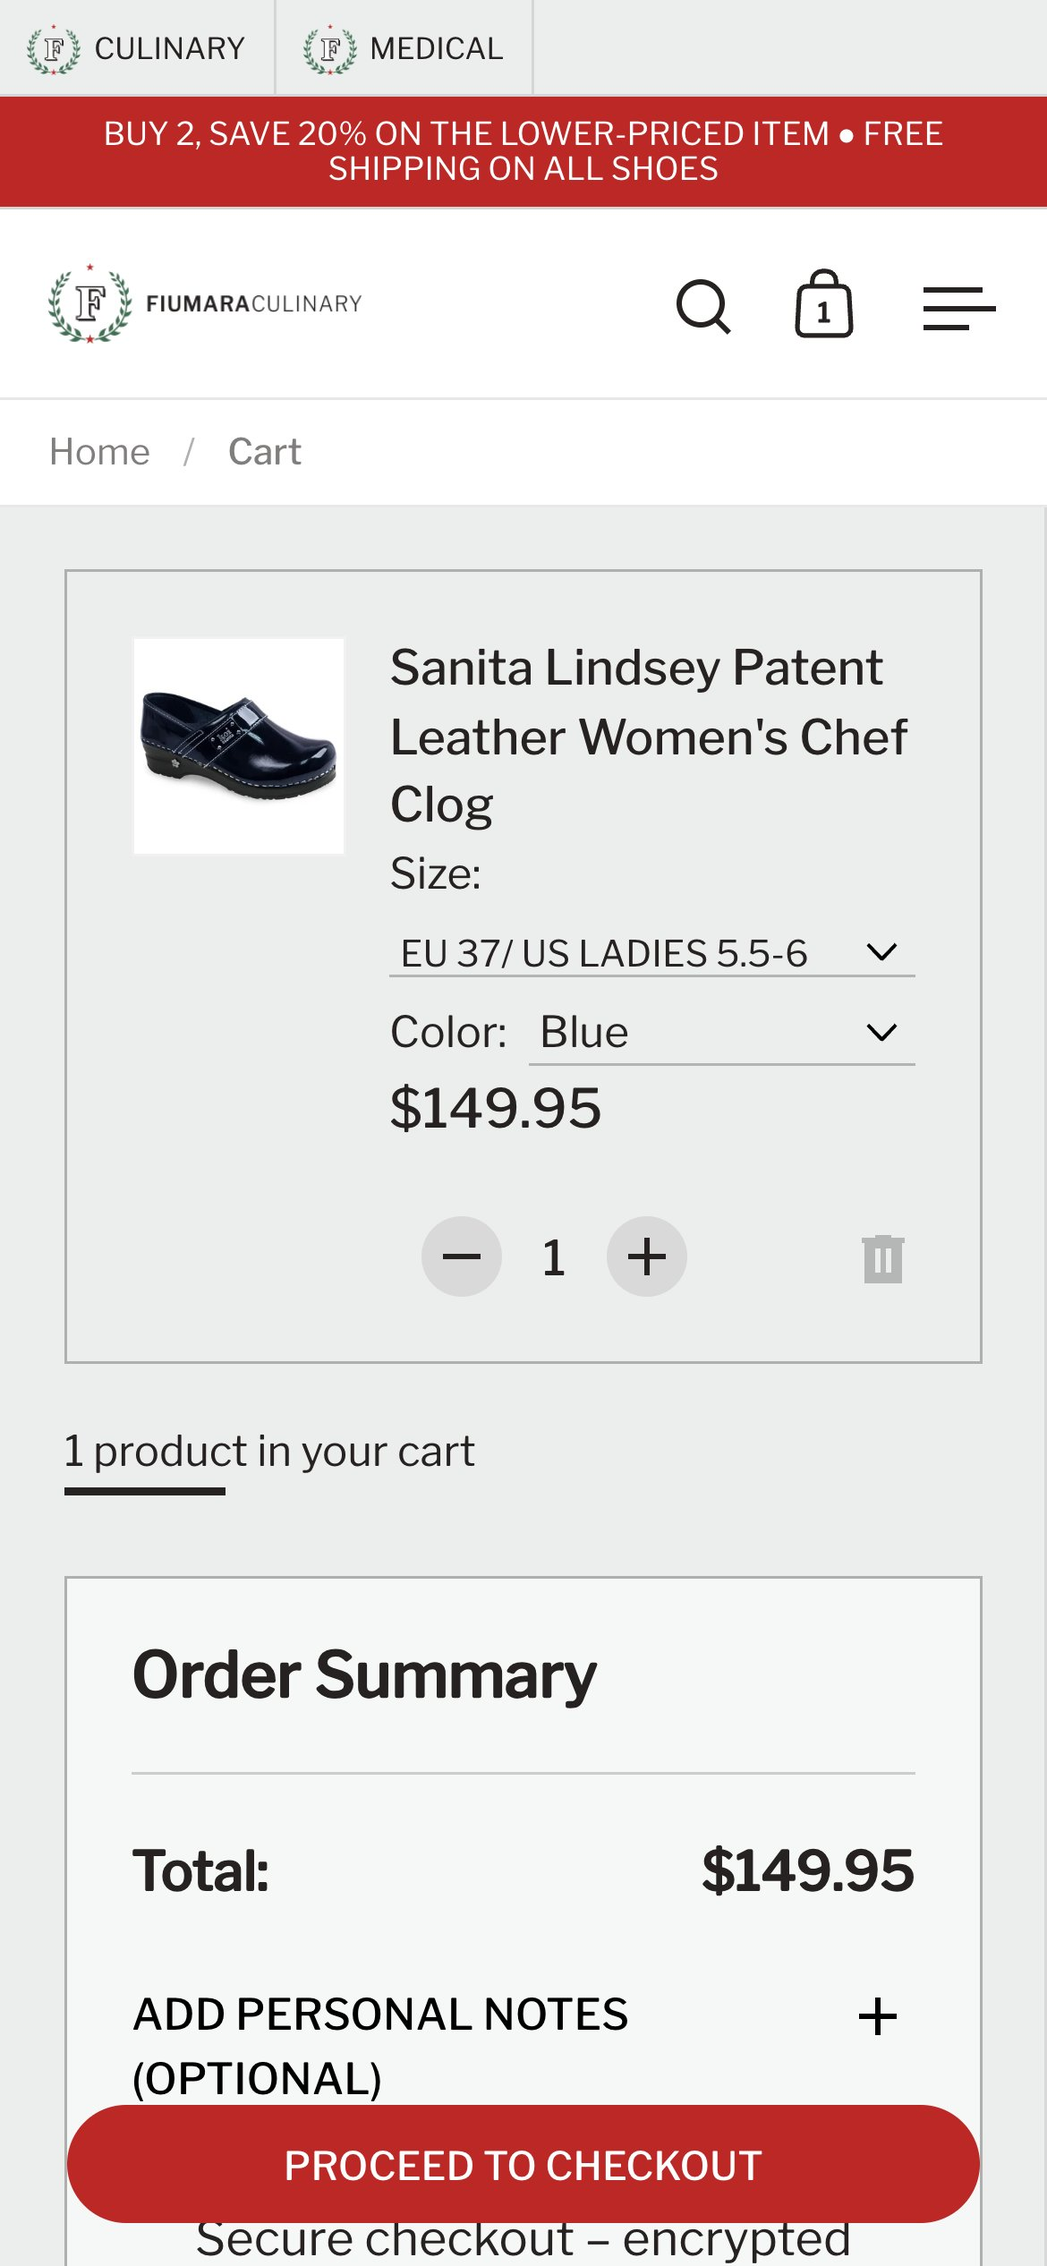
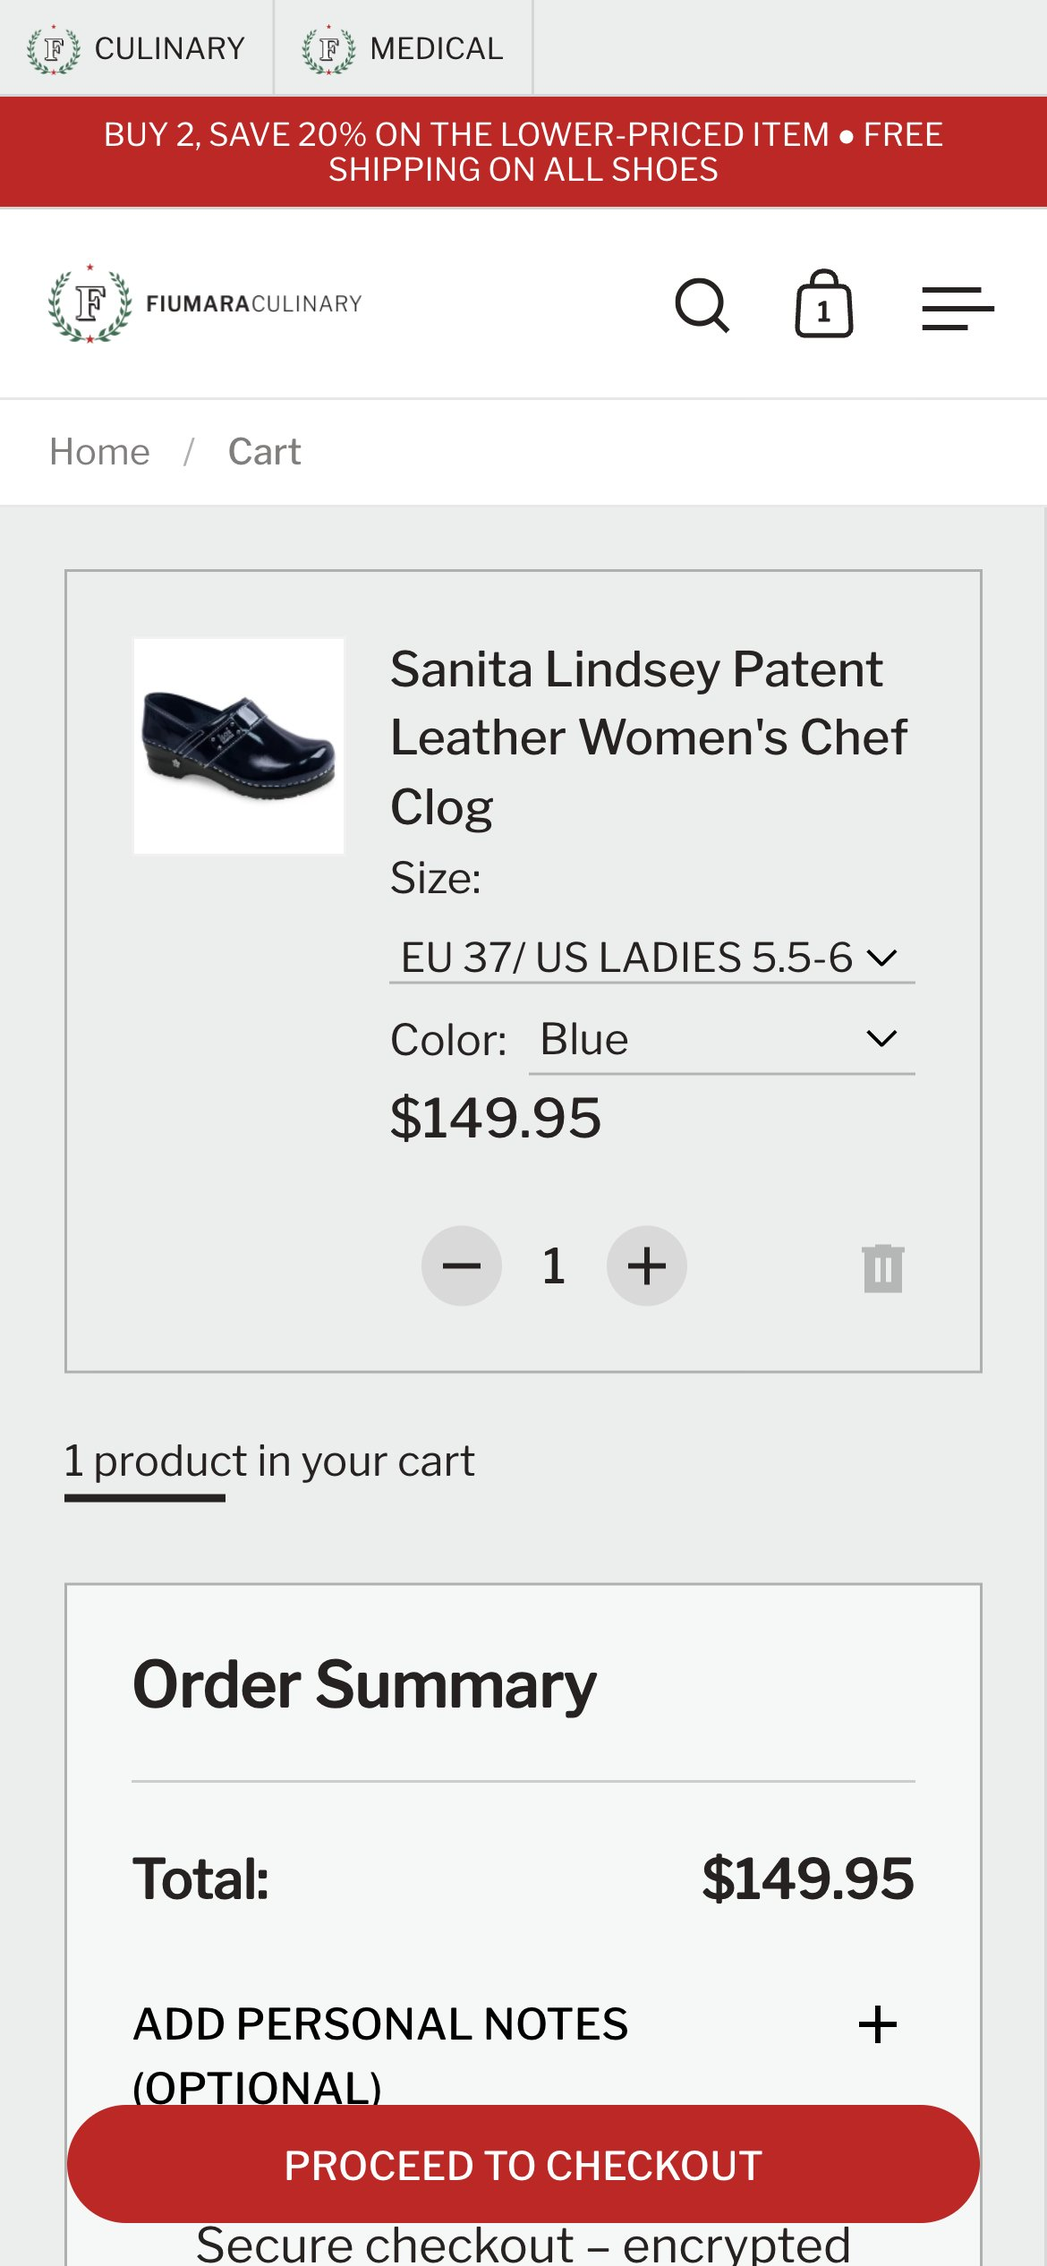
Close-ups for the checkout discount, cart shipping line and clog size; blog pair shows one change

diff --git a/index.html b/index.html
@@ -1202,7 +1202,7 @@ a.irow:hover b{text-decoration:underline}
 <h1>Store audit <span class="nm">Fiumara Culinary</span></h1> <p class="sub">What to build next on fiumaraculinary.com — screen by screen</p> <p class="meta">October 2026 · Shopify · U.S. store · checked on iPhone, 9–11 Oct 2026, rechecked 19 Oct 2026</p>
 <nav class="toc"> <a href="#summary">The short version</a> <a href="#critical">3 first-wave</a><a href="#medium">2 second-wave</a><a href="#low">3 small fixes</a><a href="#extra">2 separate offers</a> <a href="#strong">What already works</a> <a href="#price">Pricing</a> </nav> </section>
 <section class="slide" id="summary"> <img class="silk sm" src="img/silk.png" alt=""> <div class="shead"><h2>The short version</h2></div>
-<p class="lead"><b>We built the current store with you</b> — homepage, header and footer, bulk orders with embroidery quotes, and the cart fixes. This audit looks at what to build next.</p><p class="lead"><b>What we noticed.</b> Coats cannot be filtered by size or brand, the same jacket is listed five times, the “Buy 2, save 20%” offer is not applied at checkout, and shipping is a surprise on the last step.</p><p class="lead"><b>What we propose.</b> 8 changes, each on one screen — today on the left, after on the right. Then two offers: restaurant orders (size help, a CRM for team quotes) and blog posting.</p>
+<p class="lead"><b>We built the current store with you</b> — homepage, header and footer, bulk orders with embroidery quotes, and the cart fixes. This audit looks at what to build next.</p><p class="lead"><b>What we noticed.</b> Coats cannot be filtered by size or brand, the same jacket is listed five times, the “Buy 2, save 20%” offer is not applied at checkout, and shipping is a surprise on the last step.</p><p class="lead"><b>What we propose.</b> 8 changes, each on one screen — today on the left, after on the right. Then two offers: restaurant orders and blog posting.</p>
 <div class="kpis" style="margin-top:34px"><div class="kpi"><b class="notranslate" translate="no">3</b><span>First wave</span></div><div class="kpi"><b class="notranslate" translate="no">2</b><span>Second wave</span></div><div class="kpi"><b class="notranslate" translate="no">3</b><span>Small fixes</span></div><div class="kpi"><b class="notranslate" translate="no">2</b><span>Separate offers</span></div></div> </section>
 <section class="slide divider" id="critical"> <img class="silk" src="img/silk.png" alt=""> <span class="sev crit">First wave</span> <h2>3 changes that help chefs find and buy their uniform</h2> </section>
 <section class="slide" id="p-filter"> <img class="silk sm" src="img/silk.png" alt="">
@@ -1229,9 +1229,9 @@ a.irow:hover b{text-decoration:underline}
 <div class="shead"><span class="num notranslate" translate="no">03</span><h2><span class="sev crit">First wave</span>“Buy 2, save 20%” is in the bar on every page, and checkout does not apply it</h2></div>
 <div class="pbody">
 <div class="txt t1"><div class="lbl"><span class="pill">Today</span><svg class="conn" viewBox="0 0 54 12"><path d="M0 6h50M45 1.5 50 6l-5 4.5" fill="none" stroke="#6d6d6d" stroke-width="1.5"/></svg></div><p>The announcement bar promises 20% off the lower-priced item when you buy two. We added an apron and a T-shirt and opened checkout: subtotal $79.90 and no discount line. Two clogs in the cart gave the same result.</p><p class="fine-note">Checked live on the U.S. store, iPhone (390×844), 19 Oct 2026. · <a href="https://fiumaraculinary.com/cart/42921752887359:1,42920069464127:1" target="_blank" rel="noopener">open the page ↗</a></p></div>
-<div class="v1"><div><div class="phone"><div class="screen"><div class="island"></div><div class="sbar"><span>9:41</span><svg viewBox="0 0 24 11"><rect x=".5" y=".5" width="20" height="10" rx="3" fill="none" stroke="#111"/><rect x="2" y="2" width="16" height="7" rx="1.5" fill="#111"/><rect x="21.5" y="3.5" width="1.8" height="4" rx=".9" fill="#111"/></svg></div><div class="view"><img class="shot" src="img/now-checkout-bogo.jpg" alt=""></div><div class="url notranslate" translate="no"><span>fiumaraculinary.com</span></div></div></div><div class="cap">Today — two items, no discount</div></div></div>
+<div class="v1"><div><div class="phone"><div class="screen"><div class="island"></div><div class="sbar"><span>9:41</span><svg viewBox="0 0 24 11"><rect x=".5" y=".5" width="20" height="10" rx="3" fill="none" stroke="#111"/><rect x="2" y="2" width="16" height="7" rx="1.5" fill="#111"/><rect x="21.5" y="3.5" width="1.8" height="4" rx=".9" fill="#111"/></svg></div><div class="view"><img class="shot" src="img/now-checkout-bogo.jpg" alt=""></div><div class="url notranslate" translate="no"><span>fiumaraculinary.com</span></div></div></div><div class="zoom"><span class="zl">Close-up</span><div class="zbox"><img src="img/zoom-p-bogo-now.jpg" alt=""></div></div><div class="cap">Today — two items, no discount</div></div></div>
 <div class="txt t2"><div class="lbl"><span class="pill">We propose</span><svg class="conn" viewBox="0 0 54 12"><path d="M0 6h50M45 1.5 50 6l-5 4.5" fill="none" stroke="#6d6d6d" stroke-width="1.5"/></svg></div><p>Make checkout and the bar agree: set up the automatic discount for the items it covers. If the offer has ended, we change the bar text instead.</p><p>On the right: the same checkout with the discount applied.</p></div>
-<div class="v2"><div><div class="phone"><div class="screen"><div class="island"></div><div class="sbar"><span>9:41</span><svg viewBox="0 0 24 11"><rect x=".5" y=".5" width="20" height="10" rx="3" fill="none" stroke="#111"/><rect x="2" y="2" width="16" height="7" rx="1.5" fill="#111"/><rect x="21.5" y="3.5" width="1.8" height="4" rx=".9" fill="#111"/></svg></div><div class="view"><img class="shot" src="img/fix-checkout-bogo.jpg" alt=""></div><div class="url notranslate" translate="no"><span>fiumaraculinary.com</span></div></div></div><div class="cap">The same checkout with 20% off the T-shirt</div></div></div>
+<div class="v2"><div><div class="phone"><div class="screen"><div class="island"></div><div class="sbar"><span>9:41</span><svg viewBox="0 0 24 11"><rect x=".5" y=".5" width="20" height="10" rx="3" fill="none" stroke="#111"/><rect x="2" y="2" width="16" height="7" rx="1.5" fill="#111"/><rect x="21.5" y="3.5" width="1.8" height="4" rx=".9" fill="#111"/></svg></div><div class="view"><img class="shot" src="img/fix-checkout-bogo.jpg" alt=""></div><div class="url notranslate" translate="no"><span>fiumaraculinary.com</span></div></div></div><div class="zoom"><span class="zl">Close-up</span><div class="zbox"><img src="img/zoom-p-bogo-fix.jpg" alt=""></div></div><div class="cap">The same checkout with 20% off the T-shirt</div></div></div>
 <div class="cardcol"><div class="benefit-top"><span class="pill">Why it pays</span><span class="arrow"><svg width="14" height="16" viewBox="0 0 14 16"><path d="M7 1v13M1.5 8.5 7 14l5.5-5.5" fill="none" stroke="#444" stroke-width="1.6"/></svg></span></div>
 <div class="card"><p>The bar is the first line on every page; the total at checkout should match what it promises.</p><div class="stats"><div><b class="notranslate" translate="no">$79.90</b><span>checkout subtotal for two items, no discount</span></div><div><b class="notranslate" translate="no">−$4.99</b><span>what the bar promises on this order</span></div></div></div><div class="ptag notranslate" translate="no"><span>Price</span><b>$60</b><em>2 h &#183; $30/h</em></div></div>
 </div></section>
@@ -1240,9 +1240,9 @@ a.irow:hover b{text-decoration:underline}
 <div class="shead"><span class="num notranslate" translate="no">04</span><h2><span class="sev imp">Second wave</span>Apparel ships from $12.09, and the cart says nothing about shipping</h2></div>
 <div class="pbody">
 <div class="txt t1"><div class="lbl"><span class="pill">Today</span><svg class="conn" viewBox="0 0 54 12"><path d="M0 6h50M45 1.5 50 6l-5 4.5" fill="none" stroke="#6d6d6d" stroke-width="1.5"/></svg></div><p>Shipping is free only on shoes. For a $24.95 T-shirt shipped to Arizona, the cheapest option at checkout is $12.09. The cart does not mention shipping. The shipping policy gives delivery times, but no prices.</p><p class="fine-note">Checked live on the U.S. store, iPhone (390×844), 19 Oct 2026. · <a href="https://fiumaraculinary.com/cart/add?id=42920069529663&amp;quantity=1" target="_blank" rel="noopener">open the page ↗</a></p></div>
-<div class="v1"><div><div class="phone"><div class="screen"><div class="island"></div><div class="sbar"><span>9:41</span><svg viewBox="0 0 24 11"><rect x=".5" y=".5" width="20" height="10" rx="3" fill="none" stroke="#111"/><rect x="2" y="2" width="16" height="7" rx="1.5" fill="#111"/><rect x="21.5" y="3.5" width="1.8" height="4" rx=".9" fill="#111"/></svg></div><div class="view"><img class="shot" src="img/now-ship.jpg" alt=""></div><div class="url notranslate" translate="no"><span>fiumaraculinary.com</span></div></div></div><div class="cap">Today — no shipping line in the cart</div></div></div>
+<div class="v1"><div><div class="phone"><div class="screen"><div class="island"></div><div class="sbar"><span>9:41</span><svg viewBox="0 0 24 11"><rect x=".5" y=".5" width="20" height="10" rx="3" fill="none" stroke="#111"/><rect x="2" y="2" width="16" height="7" rx="1.5" fill="#111"/><rect x="21.5" y="3.5" width="1.8" height="4" rx=".9" fill="#111"/></svg></div><div class="view"><img class="shot" src="img/now-ship.jpg" alt=""></div><div class="url notranslate" translate="no"><span>fiumaraculinary.com</span></div></div></div><div class="zoom"><span class="zl">Close-up</span><div class="zbox"><img src="img/zoom-p-ship-now.jpg" alt=""></div></div><div class="cap">Today — no shipping line in the cart</div></div></div>
 <div class="txt t2"><div class="lbl"><span class="pill">We propose</span><svg class="conn" viewBox="0 0 54 12"><path d="M0 6h50M45 1.5 50 6l-5 4.5" fill="none" stroke="#6d6d6d" stroke-width="1.5"/></svg></div><p>Set free shipping on apparel from $125. Show the progress in the cart: “Add $100.05 for free shipping”.</p><p>Why $125: Happy Chef starts at $95, Chef Works and Bragard at $99, TILIT at $150. Your median chef coat is $99.95. At $99 one coat would qualify. At $125 a coat with an apron or pants does.</p><p>On the right: the same cart with the free-shipping line.</p></div>
-<div class="v2"><div><div class="phone"><div class="screen"><div class="island"></div><div class="sbar"><span>9:41</span><svg viewBox="0 0 24 11"><rect x=".5" y=".5" width="20" height="10" rx="3" fill="none" stroke="#111"/><rect x="2" y="2" width="16" height="7" rx="1.5" fill="#111"/><rect x="21.5" y="3.5" width="1.8" height="4" rx=".9" fill="#111"/></svg></div><div class="view"><img class="shot" src="img/fix-ship.jpg" alt=""></div><div class="url notranslate" translate="no"><span>fiumaraculinary.com</span></div></div></div><div class="cap">The same cart with a free-shipping goal</div></div></div>
+<div class="v2"><div><div class="phone"><div class="screen"><div class="island"></div><div class="sbar"><span>9:41</span><svg viewBox="0 0 24 11"><rect x=".5" y=".5" width="20" height="10" rx="3" fill="none" stroke="#111"/><rect x="2" y="2" width="16" height="7" rx="1.5" fill="#111"/><rect x="21.5" y="3.5" width="1.8" height="4" rx=".9" fill="#111"/></svg></div><div class="view"><img class="shot" src="img/fix-ship.jpg" alt=""></div><div class="url notranslate" translate="no"><span>fiumaraculinary.com</span></div></div></div><div class="zoom"><span class="zl">Close-up</span><div class="zbox"><img src="img/zoom-p-ship-fix.jpg" alt=""></div></div><div class="cap">The same cart with a free-shipping goal</div></div></div>
 <div class="cardcol"><div class="benefit-top"><span class="pill">Why it pays</span><span class="arrow"><svg width="14" height="16" viewBox="0 0 14 16"><path d="M7 1v13M1.5 8.5 7 14l5.5-5.5" fill="none" stroke="#444" stroke-width="1.6"/></svg></span></div>
 <div class="card"><p>The shopper sees shipping before checkout. The goal sits just above one coat, so it invites a second item.</p><div class="stats"><div><b class="notranslate" translate="no">$12.09</b><span>cheapest shipping on a $24.95 T-shirt</span></div><div><b class="notranslate" translate="no">$95–150</b><span>free-shipping thresholds at 4 competitors</span></div></div><p class="comp">Like at <a href="https://www.tilitnyc.com/products/chef-shirt" target="_blank" rel="noopener">TILIT ↗</a> — the $150 goal is in the top bar.</p></div><div class="ptag notranslate" translate="no"><span>Price</span><b>$90</b><em>3 h &#183; $30/h</em></div></div>
 </div></section>
@@ -1265,7 +1265,7 @@ a.irow:hover b{text-decoration:underline}
 <div class="txt t2"><div class="lbl"><span class="pill">We propose</span><svg class="conn" viewBox="0 0 54 12"><path d="M0 6h50M45 1.5 50 6l-5 4.5" fill="none" stroke="#6d6d6d" stroke-width="1.5"/></svg></div><p>Keep the size short and show the real difference next to it: +$3, +$4, +$5.</p><p>On the right: the same buttons with the real surcharge.</p></div>
 <div class="v2"><div><div class="phone"><div class="screen"><div class="island"></div><div class="sbar"><span>9:41</span><svg viewBox="0 0 24 11"><rect x=".5" y=".5" width="20" height="10" rx="3" fill="none" stroke="#111"/><rect x="2" y="2" width="16" height="7" rx="1.5" fill="#111"/><rect x="21.5" y="3.5" width="1.8" height="4" rx=".9" fill="#111"/></svg></div><div class="view"><img class="shot" src="img/fix-sizeadd.jpg" alt=""></div><div class="url notranslate" translate="no"><span>fiumaraculinary.com</span></div></div></div><div class="zoom"><span class="zl">Close-up</span><div class="zbox"><img src="img/zoom-p-sizeadd-fix.jpg" alt=""></div></div><div class="cap">The same sizes with the real surcharge</div></div></div>
 <div class="cardcol"><div class="benefit-top"><span class="pill">Why it pays</span><span class="arrow"><svg width="14" height="16" viewBox="0 0 14 16"><path d="M7 1v13M1.5 8.5 7 14l5.5-5.5" fill="none" stroke="#444" stroke-width="1.6"/></svg></span></div>
-<div class="card"><p>The size reads at a glance, and the surcharge on the button matches the price the shopper pays.</p><div class="stats"><div><b class="notranslate" translate="no">+$3 / +$4 / +$5</b><span>real surcharge; every button says $4</span></div><div><b class="notranslate" translate="no">37</b><span>products with the surcharge in the size name</span></div></div><p class="comp">Like at <a href="https://www.bragardusa.com/greg-chef-coat-br132171" target="_blank" rel="noopener">Bragard USA ↗</a> — large sizes carry a small “+$3.00” or “+$6.00” badge on the size button.</p></div><div class="ptag notranslate" translate="no"><span>Price</span><b>$60</b><em>2 h &#183; $30/h</em></div></div>
+<div class="card"><p>The size reads at a glance, and the surcharge on the button matches the price the shopper pays.</p><div class="stats"><div><b class="notranslate" translate="no">+$3 / +$4 / +$5</b><span>real surcharge; every button says $4</span></div><div><b class="notranslate" translate="no">37</b><span>products with the surcharge in the size name</span></div></div><p class="comp">Like at <a href="https://www.bragardusa.com/greg-chef-coat-br132171" target="_blank" rel="noopener">Bragard USA ↗</a> — large sizes carry a small “+$3.00” or “+$6.00” badge above the size button.</p></div><div class="ptag notranslate" translate="no"><span>Price</span><b>$60</b><em>2 h &#183; $30/h</em></div></div>
 </div></section>
 <section class="slide" id="p-cartsize"> <img class="silk sm" src="img/silk.png" alt="">
 <div class="shead"><span class="num notranslate" translate="no">07</span><h2><span class="sev low">Small fixes</span>In the cart the clog size is cut off: “EU 37/ US LADI…”</h2></div>
@@ -1303,8 +1303,8 @@ a.irow:hover b{text-decoration:underline}
 <div class="pbody">
 <div class="txt t1"><div class="lbl"><span class="pill">Today</span><svg class="conn" viewBox="0 0 54 12"><path d="M0 6h50M45 1.5 50 6l-5 4.5" fill="none" stroke="#6d6d6d" stroke-width="1.5"/></svg></div><p>Your News page has 33 pages of articles about chef workwear, partners and events. The latest one was published on October 1, 2025.</p><p class="fine-note">Checked live on the U.S. store, iPhone (390×844), 19 Oct 2026. · <a href="https://fiumaraculinary.com/blogs/news" target="_blank" rel="noopener">open the page ↗</a></p></div>
 <div class="v1"><div><div class="phone"><div class="screen"><div class="island"></div><div class="sbar"><span>9:41</span><svg viewBox="0 0 24 11"><rect x=".5" y=".5" width="20" height="10" rx="3" fill="none" stroke="#111"/><rect x="2" y="2" width="16" height="7" rx="1.5" fill="#111"/><rect x="21.5" y="3.5" width="1.8" height="4" rx=".9" fill="#111"/></svg></div><div class="view"><img class="shot" src="img/now-blogcard.jpg" alt=""></div><div class="url notranslate" translate="no"><span>fiumaraculinary.com</span></div></div></div><div class="cap">Today — the latest article, Oct 2025</div></div></div>
-<div class="txt t2"><div class="lbl"><span class="pill">We propose</span><svg class="conn" viewBox="0 0 54 12"><path d="M0 6h50M45 1.5 50 6l-5 4.5" fill="none" stroke="#6d6d6d" stroke-width="1.5"/></svg></div><p>We set up blog posting for your store: one new article a day on chef workwear topics, saved as drafts for your approval or published automatically. New articles appear in the readable card layout from item 08.</p><p>On the right: a new article first, in the readable card.</p></div>
-<div class="v2"><div><div class="phone"><div class="screen"><div class="island"></div><div class="sbar"><span>9:41</span><svg viewBox="0 0 24 11"><rect x=".5" y=".5" width="20" height="10" rx="3" fill="none" stroke="#111"/><rect x="2" y="2" width="16" height="7" rx="1.5" fill="#111"/><rect x="21.5" y="3.5" width="1.8" height="4" rx=".9" fill="#111"/></svg></div><div class="view"><img class="shot" src="img/fix-blognew.jpg" alt=""></div><div class="url notranslate" translate="no"><span>fiumaraculinary.com</span></div></div></div><div class="cap">A new article first, readable</div></div></div>
+<div class="txt t2"><div class="lbl"><span class="pill">We propose</span><svg class="conn" viewBox="0 0 54 12"><path d="M0 6h50M45 1.5 50 6l-5 4.5" fill="none" stroke="#6d6d6d" stroke-width="1.5"/></svg></div><p>We set up blog posting for your store: one new article a day on chef workwear topics, saved as drafts for your approval or published automatically. With item 08, the new articles also get the readable card layout.</p><p>On the right: the same News page with a new article first.</p></div>
+<div class="v2"><div><div class="phone"><div class="screen"><div class="island"></div><div class="sbar"><span>9:41</span><svg viewBox="0 0 24 11"><rect x=".5" y=".5" width="20" height="10" rx="3" fill="none" stroke="#111"/><rect x="2" y="2" width="16" height="7" rx="1.5" fill="#111"/><rect x="21.5" y="3.5" width="1.8" height="4" rx=".9" fill="#111"/></svg></div><div class="view"><img class="shot" src="img/fix-blognew.jpg" alt=""></div><div class="url notranslate" translate="no"><span>fiumaraculinary.com</span></div></div></div><div class="cap">A new article first</div></div></div>
 <div class="cardcol"><div class="benefit-top"><span class="pill">Why it pays</span><span class="arrow"><svg width="14" height="16" viewBox="0 0 14 16"><path d="M7 1v13M1.5 8.5 7 14l5.5-5.5" fill="none" stroke="#444" stroke-width="1.6"/></svg></span></div>
 <div class="card"><p>Each article is one more page that answers a chef's question and links to the coats, aprons and clogs you sell.</p><div class="stats"><div><b class="notranslate" translate="no">365</b><span>articles in the first year</span></div><div><b class="notranslate" translate="no">$1,110</b><span>first year, about $3 per article</span></div></div></div><div class="ptag notranslate" translate="no"><span>Price</span><b>$750 + $30/mo</b><em>setup + monthly, 365 articles a year</em></div></div>
 </div></section>
